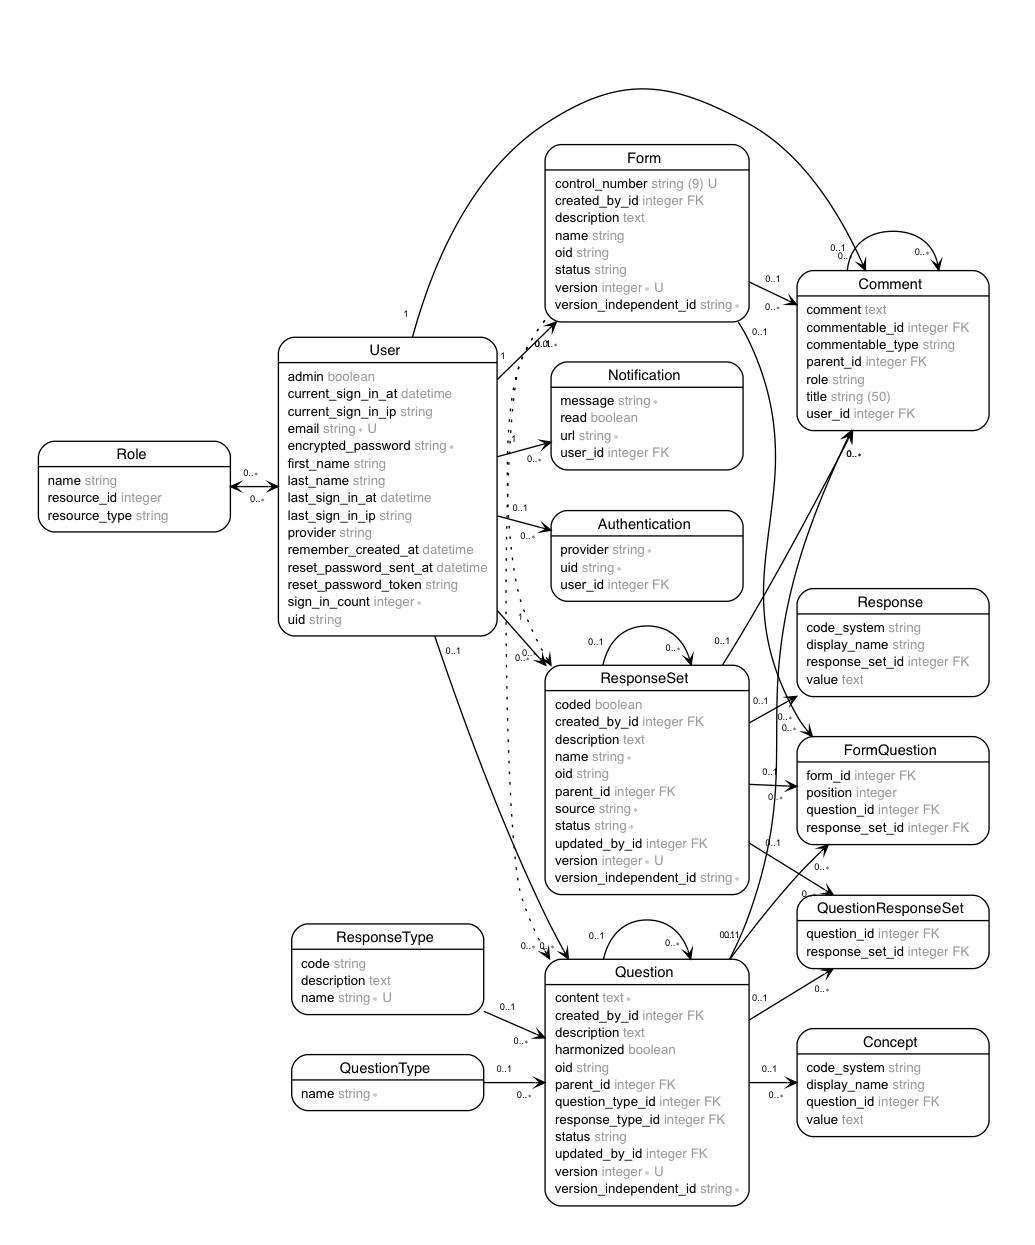
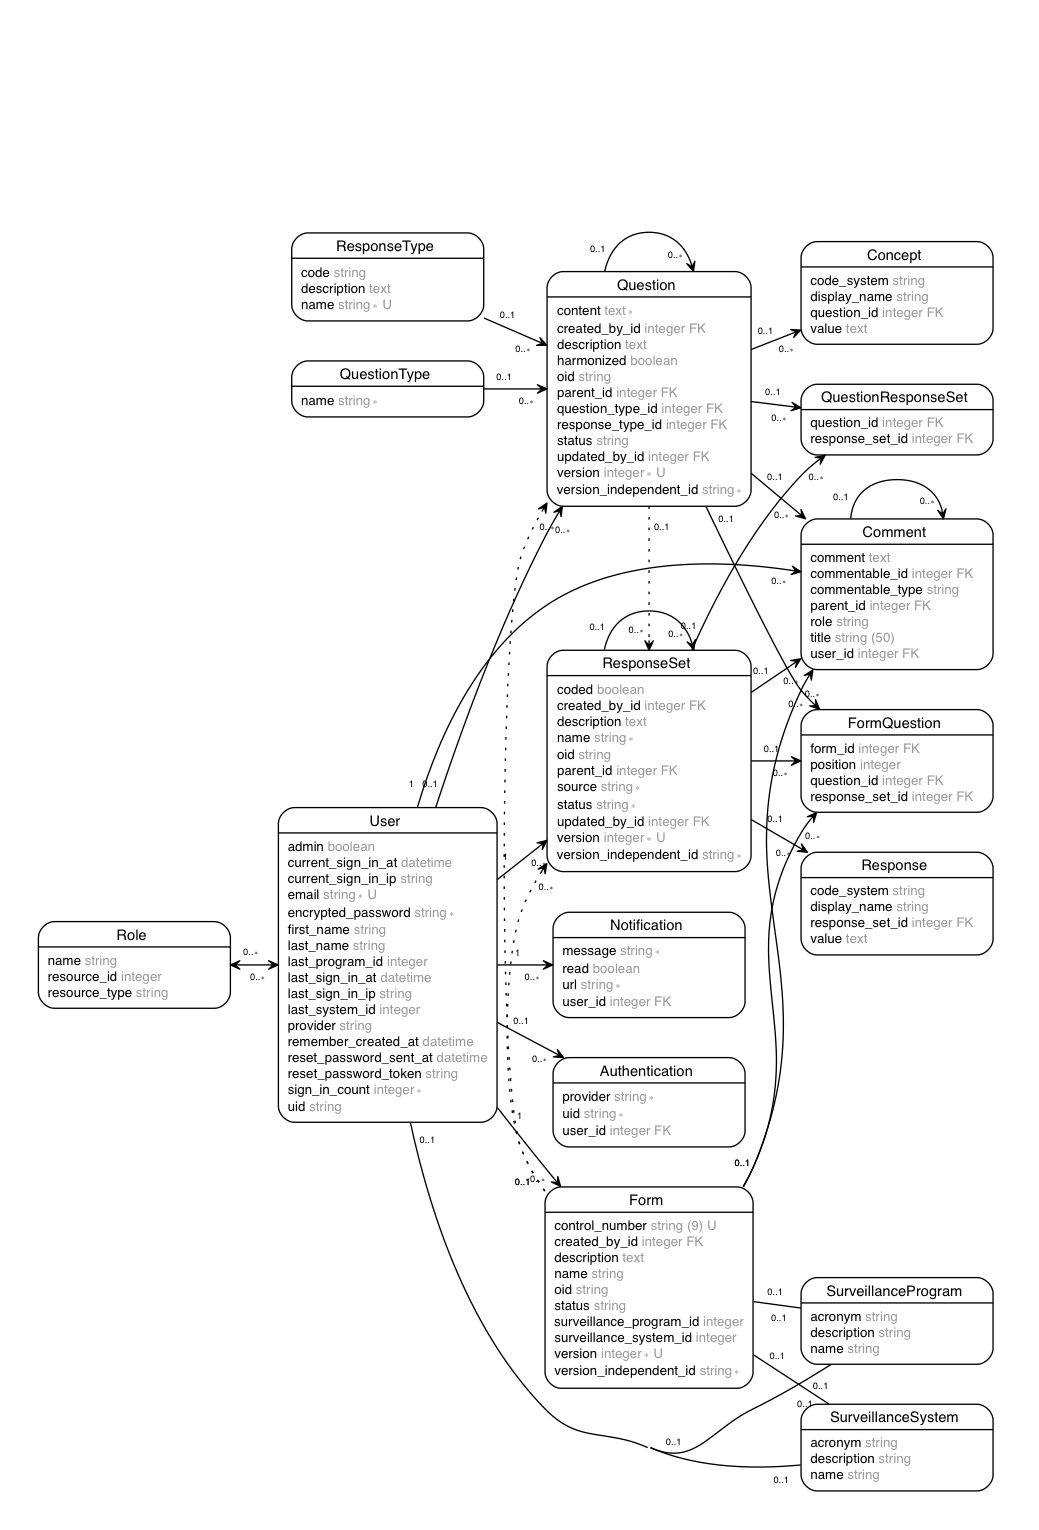
Rails stuff for systems & programs
Creates the migrations, models and controllers for surveillance systems
and programs. Modifies forms and users to point at the new items.

No real functionality in this commit. Just getting the database ready
for the new features.

diff --git a/db/schema.rb b/db/schema.rb
@@ -10,7 +10,7 @@
 #
 # It's strongly recommended that you check this file into your version control system.
 
-ActiveRecord::Schema.define(version: 20170307205339) do
+ActiveRecord::Schema.define(version: 20170315151032) do
 
   # These are extensions that must be enabled in order to support this database
   enable_extension "plpgsql"
@@ -61,14 +61,16 @@ ActiveRecord::Schema.define(version: 20170307205339) do
   create_table "forms", force: :cascade do |t|
     t.string   "name"
     t.integer  "created_by_id"
-    t.datetime "created_at",                                         null: false
-    t.datetime "updated_at",                                         null: false
+    t.datetime "created_at",                                          null: false
+    t.datetime "updated_at",                                          null: false
     t.string   "version_independent_id"
-    t.integer  "version",                          default: 1
-    t.string   "control_number",         limit: 9
+    t.integer  "version",                           default: 1
+    t.string   "control_number",          limit: 9
     t.string   "oid"
     t.text     "description"
-    t.string   "status",                           default: "draft"
+    t.string   "status",                            default: "draft"
+    t.integer  "surveillance_program_id"
+    t.integer  "surveillance_system_id"
     t.index ["created_by_id"], name: "index_forms_on_created_by_id", using: :btree
   end
 
@@ -162,6 +164,22 @@ ActiveRecord::Schema.define(version: 20170307205339) do
     t.index ["name"], name: "index_roles_on_name", using: :btree
   end
 
+  create_table "surveillance_programs", force: :cascade do |t|
+    t.string   "name"
+    t.string   "description"
+    t.string   "acronym"
+    t.datetime "created_at",  null: false
+    t.datetime "updated_at",  null: false
+  end
+
+  create_table "surveillance_systems", force: :cascade do |t|
+    t.string   "name"
+    t.string   "description"
+    t.string   "acronym"
+    t.datetime "created_at",  null: false
+    t.datetime "updated_at",  null: false
+  end
+
   create_table "users", force: :cascade do |t|
     t.string   "email",                  default: "",    null: false
     t.string   "encrypted_password",     default: "",    null: false
@@ -180,6 +198,8 @@ ActiveRecord::Schema.define(version: 20170307205339) do
     t.boolean  "admin",                  default: false
     t.string   "first_name"
     t.string   "last_name"
+    t.integer  "last_program_id"
+    t.integer  "last_system_id"
     t.index ["email"], name: "index_users_on_email", unique: true, using: :btree
     t.index ["reset_password_token"], name: "index_users_on_reset_password_token", unique: true, using: :btree
   end
@@ -192,6 +212,8 @@ ActiveRecord::Schema.define(version: 20170307205339) do
 
   add_foreign_key "authentications", "users"
   add_foreign_key "concepts", "questions"
+  add_foreign_key "forms", "surveillance_programs"
+  add_foreign_key "forms", "surveillance_systems"
   add_foreign_key "forms", "users", column: "created_by_id"
   add_foreign_key "questions", "question_types"
   add_foreign_key "questions", "response_types"
@@ -200,4 +222,6 @@ ActiveRecord::Schema.define(version: 20170307205339) do
   add_foreign_key "response_sets", "users", column: "created_by_id"
   add_foreign_key "response_sets", "users", column: "updated_by_id"
   add_foreign_key "responses", "response_sets"
+  add_foreign_key "users", "surveillance_programs", column: "last_program_id"
+  add_foreign_key "users", "surveillance_systems", column: "last_system_id"
 end

diff --git a/db/migrate/20170315151032_link_programs_and_systems.rb b/db/migrate/20170315151032_link_programs_and_systems.rb
@@ -1,0 +1,13 @@
+class LinkProgramsAndSystems < ActiveRecord::Migration[5.0]
+  def change
+    add_column :forms, :surveillance_program_id, :integer
+    add_foreign_key :forms, :surveillance_programs
+    add_column :forms, :surveillance_system_id, :integer
+    add_foreign_key :forms, :surveillance_systems
+
+    add_column :users, :last_program_id, :integer
+    add_foreign_key :users, :surveillance_programs, column: :last_program_id
+    add_column :users, :last_system_id, :integer
+    add_foreign_key :users, :surveillance_systems, column: :last_system_id
+  end
+end

diff --git a/app/models/user.rb b/app/models/user.rb
@@ -8,6 +8,9 @@ class User < ApplicationRecord
   validates :email, uniqueness: true, case_sensitive: false
   has_many :authentications
 
+  has_one :last_system, class_name: SurveillanceSystem
+  has_one :last_program, class_name: SurveillanceProgram
+
   def apply_omniauth(omniauth)
     self.email = omniauth['info']['email'] if email.blank? && omniauth['info']
     authentications.build(provider: omniauth['provider'], uid: omniauth['uid'])

diff --git a/app/models/form.rb b/app/models/form.rb
@@ -5,6 +5,10 @@ class Form < ApplicationRecord
   has_many :form_questions
   has_many :questions, through: :form_questions
   has_many :response_sets, through: :form_questions
+
+  has_one :surveillance_system
+  has_one :surveillance_program
+
   belongs_to :created_by, class_name: 'User'
 
   validates :created_by, presence: true

diff --git a/config/routes.rb b/config/routes.rb
@@ -1,4 +1,6 @@
 Rails.application.routes.draw do
+  resources :surveillance_systems, only: [:index, :show]
+  resources :surveillance_programs, only: [:index, :show]
   get 'response_types', to: 'response_types#index', as: :response_types
   get 'elasticsearch', to: 'elasticsearch#index', as: :elasticsearch
 

diff --git a/db/migrate/20170315150102_create_surveillance_programs.rb b/db/migrate/20170315150102_create_surveillance_programs.rb
@@ -1,0 +1,11 @@
+class CreateSurveillancePrograms < ActiveRecord::Migration[5.0]
+  def change
+    create_table :surveillance_programs do |t|
+      t.string :name
+      t.string :description
+      t.string :acronym
+
+      t.timestamps
+    end
+  end
+end

diff --git a/db/migrate/20170315150423_create_surveillance_systems.rb b/db/migrate/20170315150423_create_surveillance_systems.rb
@@ -1,0 +1,11 @@
+class CreateSurveillanceSystems < ActiveRecord::Migration[5.0]
+  def change
+    create_table :surveillance_systems do |t|
+      t.string :name
+      t.string :description
+      t.string :acronym
+
+      t.timestamps
+    end
+  end
+end

diff --git a/test/controllers/surveillance_programs_controller_test.rb b/test/controllers/surveillance_programs_controller_test.rb
@@ -1,0 +1,7 @@
+require 'test_helper'
+
+class SurveillanceProgramsControllerTest < ActionDispatch::IntegrationTest
+  # test "the truth" do
+  #   assert true
+  # end
+end

diff --git a/test/controllers/surveillance_systems_controller_test.rb b/test/controllers/surveillance_systems_controller_test.rb
@@ -1,0 +1,7 @@
+require 'test_helper'
+
+class SurveillanceSystemsControllerTest < ActionDispatch::IntegrationTest
+  # test "the truth" do
+  #   assert true
+  # end
+end

diff --git a/test/models/surveillance_program_test.rb b/test/models/surveillance_program_test.rb
@@ -1,0 +1,7 @@
+require 'test_helper'
+
+class SurveillanceProgramTest < ActiveSupport::TestCase
+  # test "the truth" do
+  #   assert true
+  # end
+end

diff --git a/test/models/surveillance_system_test.rb b/test/models/surveillance_system_test.rb
@@ -1,0 +1,7 @@
+require 'test_helper'
+
+class SurveillanceSystemTest < ActiveSupport::TestCase
+  # test "the truth" do
+  #   assert true
+  # end
+end

diff --git a/app/serializers/surveillance_program_serializer.rb b/app/serializers/surveillance_program_serializer.rb
@@ -1,0 +1,3 @@
+class SurveillanceProgramSerializer < ActiveModel::Serializer
+  attributes :id, :name, :description, :acronym
+end
